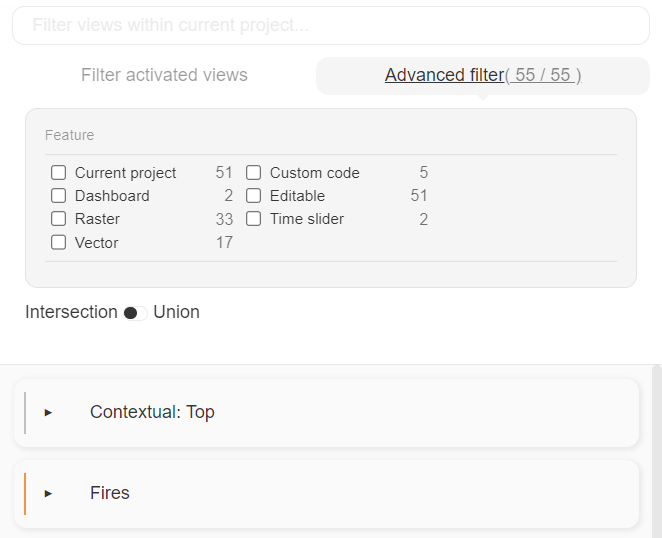
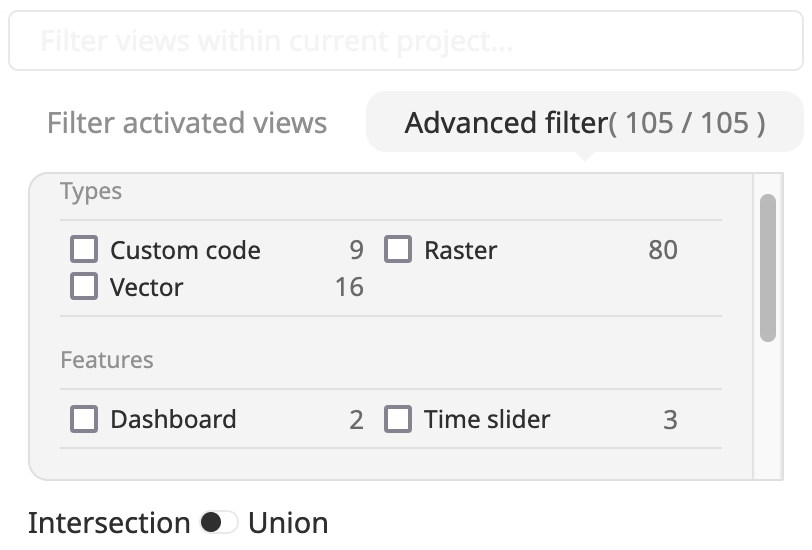
Update documentation for MapX version 1.13.9

diff --git a/conf.py b/conf.py
@@ -1,5 +1,6 @@
 import os
 import sys
+from datetime import date
 sys.path.insert(0, os.path.abspath("."))
 
 # Configuration file for the Sphinx documentation builder.
@@ -11,8 +12,8 @@ sys.path.insert(0, os.path.abspath("."))
 
 project = "MapX"
 author = "UNEP/GRID-Geneva"
-copyright = "2014-2024, UNEP/GRID-Geneva"
-version = "1.0.2"
+copyright = f'2014-{date.today().year}, UNEP/GRID-Geneva'
+version = "1.0.3"
 
 # -- General configuration ---------------------------------------------------
 
@@ -48,7 +49,12 @@ html_theme_options = {
 }
 
 latex_elements = {
+    'papersize': 'letterpaper',
+    'pointsize': '11pt',
     'preamble': r"""
+    \usepackage{charter}
+    \usepackage[defaultsans]{lato}
+    \usepackage{inconsolata}
     \usepackage{longtable}
     """,
 }

diff --git a/docs/user-interface/problematic-content-report.rst b/docs/user-interface/problematic-content-report.rst
@@ -1,0 +1,104 @@
+Report problematic content tool
+===============================
+
+The **Report problematic content tool** allows users to easily reach out to
+the MapX team or project editors/administrators to report any issues or
+concerns. Whether it's a problem with the application's functionality (e.g.,
+user interface glitches, tool errors, translation mistakes) or content-related
+concerns (e.g., incorrect data, maps, or dashboards), users can use this tool
+to ensure that the development team is promptly informed.
+
+
+How to report problematic content in MapX?
+------------------------------------------
+
+All users, regardless of their privileges, can access the **Report problematic
+content tool** from the menu bar located on the right-side of your screen.
+
+.. figure:: ./img/problematic-content-report-menu-bar.png
+   :width: 450
+   :align: center
+   :class: with-shadow
+
+   Report problematic content icon in the menu bar
+
+
+Once the tool is activated, users can create and submit a report through
+a dedicated panel, with each input field explained in detail below.
+
+.. figure:: ./img/problematic-content-report-panel.png
+   :align: center
+   :class: with-shadow
+
+   Report problematic content panel
+
+.. _report-types:
+
+1. Report type: four types of reports are available:
+   
+   1. Bug or feature request: This report is sent to the application developer
+      to address bugs or suggest improvements. For bug reports, please provide
+      detailed steps to reproduce the issue. Any error messages shown in
+      the MapX interface (e.g., in the notification panel or a dedicated panel)
+      should be included in the report.
+   2. View, data or dashboard: This report is sent to the editor responsible
+      for the selected views to fix data-related problems (e.g., broken views,
+      missing or outdated data).
+   3. Project: This report is directed to the project administrator for comments
+      or concerns about the project's content or organization.
+   4. Institutional: This report is sent to the MapX team for general
+      information about the application, collaboration inquiries, or to
+      report problematic content (e.g., prohibited material, misinformation,
+      scientific errors).
+
+2. Priority: Priority levels help determine how quickly a report needs to be
+   addressed. These range from "Low" for minor issues to "High" for critical
+   issues requiring urgent attention.
+
+3. Include current activated views list: When this option is enabled,
+   the reference (identifier and link) of the active views will be attached
+   to your message. This option is mandatory for "Bug or Feature Request"
+   reports.
+
+4. Include map configuration: By enabling this option, the current map
+   configuration (i.e., map extent, zoom, theme, globe mode, aerial view)
+   will be attached to the report.
+
+.. _contact-email:
+
+5. Contact email: An email address for follow-up communication. If left blank,
+   the report will be submitted anonymously.
+
+6. Subject: The title or subject of your report.
+
+7. Description: A detailed explanation of the issue or enhancement. See
+   :ref:`Report types <report-types>` for relevant information to include.
+
+Once the report is complete, click the "Submit" button. A summary of your
+message will be displayed in the MapX interface, allowing you to review
+and verify all details before sending. To finalize the submission, click
+the "Confirm" button.
+
+.. figure:: ./img/problematic-content-report-confirmation-panel.png
+   :width: 450
+   :align: center
+   :class: with-shadow
+
+   Preview and confirmation panel
+
+
+After submission, a confirmation message will be sent to the email address
+provided in the :ref:`Contact email <contact-email>` field.
+
+.. figure:: ./img/problematic-content-report-email.png
+   :width: 450
+   :align: center
+   :class: with-shadow
+
+   Confirmation email
+
+
+.. tip::
+   If your report is not addressed within a reasonable time frame, you can
+   forward the confirmation email (which includes the report ID) to the MapX
+   team at: issues@mapx.org.

diff --git a/docs/user-interface/menu-bar.rst b/docs/user-interface/menu-bar.rst
@@ -40,32 +40,39 @@ Navigation buttons
 +---------------------------+------------------------------------------+
 
 In addition to the navigation buttons, some interactions with the map
-can also be done via mouse and keyboard: - Dragging through the map can
-be performed by clicking the left button of the mouse and moving the
-pointer. - Zoom can be performed by scrolling the mouse's wheel. -
-Clicking ``Shift`` and dragging with the mouse allows selecting an area
-where to zoom in. - Clicking the right button of the mouse (or clicking
-``Ctrl`` and clicking the left mouse button) and moving the pointer
-allows the map to be tilted and rotated.
+can also be done via mouse and keyboard:
+
+- Dragging through the map can be performed by clicking the left button of
+  the mouse and moving the pointer.
+- Zoom can be performed by scrolling the mouse's wheel.
+- Clicking ``Shift`` and dragging with the mouse allows selecting an area
+  where to zoom in.
+- Clicking the right button of the mouse (or clicking ``Ctrl`` and clicking
+  the left mouse button) and moving the pointer allows the map to be tilted
+  and rotated.
 
 Tools
 ~~~~~
 
-+----------------+-------------+----------------------------------------+
-| Button         | Description | Link to the specific documentation     |
-+================+=============+========================================+
-| |image12|      | Map         | :doc:`link <map-composer>`             |
-|                | composer    |                                        |
-+----------------+-------------+----------------------------------------+
-| |image13|      | Draw tool   | :doc:`link <draw-tool>`                |
-+----------------+-------------+----------------------------------------+
-| |image14|      | Sharing     | :doc:`link <sharing-manager>`          |
-|                | manager     |                                        |
-+----------------+-------------+----------------------------------------+
-| |image15|      | Highlight   | :doc:`link <highlight-vector-features>`|
-|                | vector      |                                        |
-|                | features    |                                        |
-+----------------+-------------+----------------------------------------+
++----------------+-------------+-----------------------------------------+
+| Button         | Description | Link to the specific documentation      |
++================+=============+=========================================+
+| |image12|      | Map         | :doc:`link <map-composer>`              |
+|                | composer    |                                         |
++----------------+-------------+-----------------------------------------+
+| |image13|      | Draw tool   | :doc:`link <draw-tool>`                 |
++----------------+-------------+-----------------------------------------+
+| |image14|      | Sharing     | :doc:`link <sharing-manager>`           |
+|                | manager     |                                         |
++----------------+-------------+-----------------------------------------+
+| |image15|      | Highlight   | :doc:`link <highlight-vector-features>` |
+|                | vector      |                                         |
+|                | features    |                                         |
++----------------+-------------+-----------------------------------------+
+| |image20|      | Report      | :doc:`link <problematic-content-report>`|
+|                | problematic |                                         |
+|                | content     |                                         |
++----------------+-------------+-----------------------------------------+
 
 Others
 ~~~~~~
@@ -102,3 +109,4 @@ Others
 .. |image17| image:: ./img/therms-of-use.png
 .. |image18| image:: ./img/documentation.png
 .. |image19| image:: ./img/bug-report.png
+.. |image20| image:: ./img/problematic-content-report.png

diff --git a/docs/sources/edit-vector-source.rst b/docs/sources/edit-vector-source.rst
@@ -2,10 +2,12 @@ Edit vector source
 ==================
 
 .. warning::
-   Using the **Edit vector source** tool may cause data to be irreparably
-   altered or even deleted, as with desktop spreadsheet editors. MapX do
-   not offer data recovery services for data sources. Please use this tool
-   with caution.
+   The MapX database currently utilizes two separate backup systems. However,
+   user-specific data recovery is not yet supported for structural changes to
+   tables, such as deletions of rows or columns, which are considered
+   irreversible. Therefore, using the **Edit vector source** tool may cause
+   data to be permanently altered or even deleted, as with desktop spreadsheet
+   editors. Please use this tool with caution.
 
 The **Edit vector source** is an interactive workspace allowing to
 access the tabular data of a vector source and edit its content
@@ -120,7 +122,7 @@ possible to undo/redo all the changes using the dedicated buttons
 Advanced tools
 ~~~~~~~~~~~~~~
 
-Eight advanced tools are available from the dedicated button at the
+Nine advanced tools are available from the dedicated button at the
 bottom of the panel:
 
 .. figure:: ./img/edit-sources-advanced-tools.png
@@ -129,6 +131,7 @@ bottom of the panel:
    :class: with-shadow
 
    Advanced tools
+
 
 .. _add-column:
 
@@ -157,8 +160,7 @@ Remove column
 
 This tool allows to remove a specific column from the source. The
 deletion will be performed in the database and all interactive tables.
-It is not possible to undo this operation. As MapX does not offer a
-recovery service, data will be permanently deleted.
+It is not possible to undo this action after the last confirmation panel.
 
 .. note::
    It is not possible to delete a column that is used as a primary and/or
@@ -216,6 +218,28 @@ Duplicate column
 This tool allows to duplicate a column of the attribute table with its
 content. As a new column is added, the same restrictions as **Add
 column** apply (see above).
+
+Remove selected rows
+^^^^^^^^^^^^^^^^^^^^
+
+This tool allows to delete rows from the dataset that have been previously
+selected from the table editor. To select rows, simply click on the row indexes.
+Multiple selection can be performed by holding down the ``CTRL`` key or
+``Command`` key on macOS. The deletion will be performed in the database and
+all interactive tables. It is not possible to undo this action after the last
+confirmation panel.
+
+.. figure:: ./img/edit-sources-attribute-rows-selection.gif
+   :width: 450
+   :align: center
+   :class: with-shadow
+
+   Selecting rows for deletion
+
+.. note::
+   While it's possible to delete all the rows of a source without impacting
+   the MapX application, an empty source will definitely become unusable,
+   as it is currently not possible to add new rows to sources.
 
 Validate the geometry
 ^^^^^^^^^^^^^^^^^^^^^

diff --git a/docs/user-interface/work-environment.rst b/docs/user-interface/work-environment.rst
@@ -87,12 +87,12 @@ Users can filter views that are available on the list through
 keyword(s). The process can be performed by typing manually the
 keyword(s) in the text field below the name of the project. The keywords
 are searched in title and abstract of all available views for the
-selected project and on the metadata of the source layers from which the
-views were generated. Views can also be filtered by features from the
-**Advanced filter** module. Multiple selection is allowed and can be
-managed in two different ways depending on the user's choice at the
-bottom of the module: 1) “Intersection” (default) or 2) “Union”. The
-first option displays views that satisfy all parameters while the second
+selected project and on the metadata of the source layers from which the views
+were generated. Views can also be filtered by types, features and/or rights
+from the **Advanced filter** module. Multiple selection is allowed
+and can be managed in two different ways depending on the user's choice at
+the bottom of the module: 1) “Intersection” (default) or 2) “Union”.
+The first option displays views that satisfy all parameters while the second
 results in a larger list of views, where displayed views are those that
 satisfy at least one parameter. Finally, views can be filtered according
 to their status (active on map or not).

diff --git a/docs/introduction/mapx-highlights.rst b/docs/introduction/mapx-highlights.rst
@@ -3,7 +3,7 @@ MapX highlights
 
 -  Most of MapX content (tools or data) is publicly available without
    the need to register in the application.
--  As of July 22, 2024, more than 2,000 public data layers have been
+-  As of October 1, 2024, more than 1,900 public data layers have been
    published in MapX.
 -  It is currently available in all the UN's six official languages
    (Arabic, Chinese, English, French, Russian, Spanish) and in German,

diff --git a/index.rst b/index.rst
@@ -27,8 +27,8 @@ web addresses that may not be associated with UNEP/GRID-Geneva.
 .. tip::
    To open links in new tabs, the following shortcuts can be used:
 
-   - Windows and Linux: `CTRL` + click
-   - MacOS: `CMD` + click
+   - Windows and Linux: ``CTRL`` + click
+   - MacOS: ``Command`` + click
 
 The documentation source code is available on GitHub, as well as
 in HTML and PDF formats at https://docs.mapx.org.

diff --git a/docs/sources/table-join-tool.rst b/docs/sources/table-join-tool.rst
@@ -201,6 +201,10 @@ To create a join-type source, follow these steps:
    will automatically appear in other MapX tools, and the data can be
    visualized through a vector-type view.
 
+.. note::
+   Columns to display are limited to a maximum of 50 for the "Base source"
+   as well as for all "Join sources".
+
 Validation system
 ^^^^^^^^^^^^^^^^^
 

diff --git a/docs/user-interface/index.rst b/docs/user-interface/index.rst
@@ -48,3 +48,4 @@ the interactive map and which are:
    draw-tool
    sharing-manager
    highlight-vector-features
+   problematic-content-report
